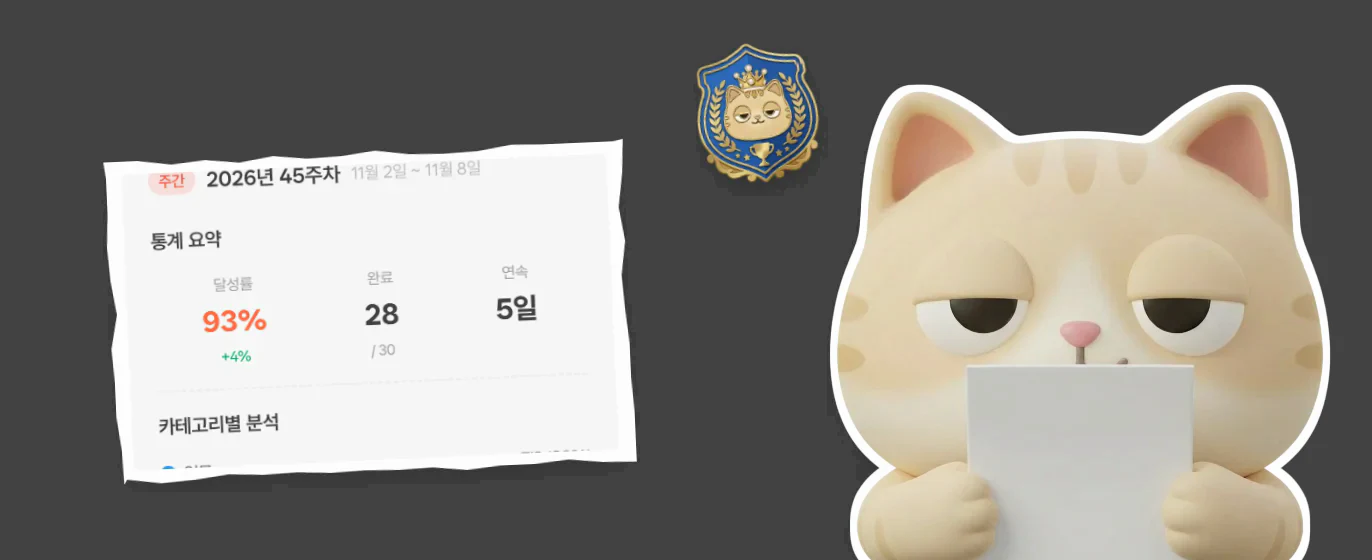
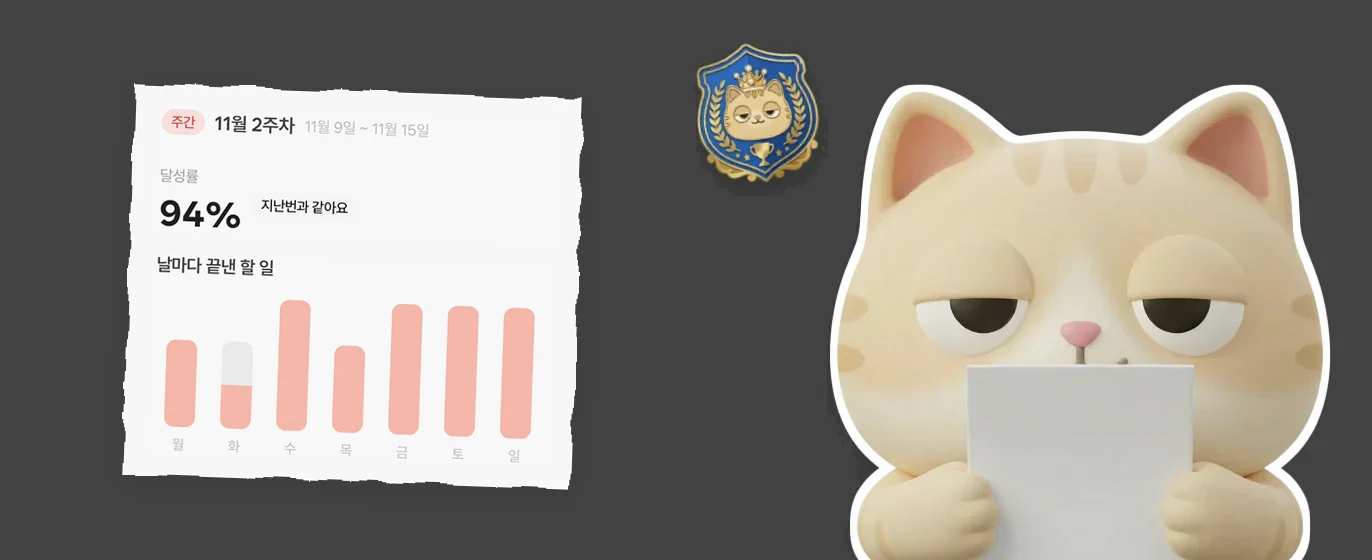
fix(mobile): [18.15/18] 결제 화면 AI 혜택 그림을 1.16.0 화면으로 바꾸고 동의가 어긋나도 제안 화면이 멈추지 않게 한다
결제 화면 혜택 그림
- 계정 7종 시뮬레이터 QA에서 결제 화면의 AI 반복 제안 그림이 옛 제안 카드(신뢰도 95%,
  거절·수락, 만료 11월 23일)를, AI 리포트 그림이 옛 통계 요약을 보였다
- 두 그림의 고양이·배지·배경(brand·#424242)은 그대로 두고 왼쪽 종이만 1.16.0 실제 화면으로
  바꿨다. 제안은 근거와 두 버튼이 있는 제안 줄, 리포트는 달성률 헤드라인과 날마다 막대다.
  크기(1372×560)와 찢은 종이·그림자 모양은 원본과 같다
- 리포트 혜택 설명에서 1.16.0에 없어진 요일 패턴을 뺐다(ko "달성률과 날마다 끝낸 할 일을
  차트로 보여 줘요", en "See your completion rate and daily progress in charts")
- 그림 이름의 routine을 기능 이름(AI_SUGGESTION)에 맞춰 benefit-ai-suggestion.webp로 바꿨다

동의가 어긋날 때 받는 중 틀
- SuggestionStatus.NeedsAiConsent는 앱이 동의를 알면 받는 중 틀을 그렸다. 받은 상태가 여전히
  NEEDS_AI_CONSENT면(동의 시각이 서버 시계보다 늦어 서버가 아직 동의 전으로 보는 경우) 다시
  받을 일이 없어 틀에 멈췄다
- 제안 목록을 다시 받는 동안(useIsFetching)만 틀을 두고, 받은 뒤에도 동의 전이면 안내를 다시
  보여 다시 동의할 수 있게 한다

검증
- 새 회귀 테스트(suggestion-status.test): 고치기 전 코드에서 실패(틀에 머묾), 고친 뒤 통과
- mobile typecheck·oxlint·check:unused, jest suggestion·billing·consent·i18n 45 suites 509건
- docs:check 170개 실패 0

Changed region(s): [[0.0612, 0.1518, 0.4898, 0.8804], [0.0918, 0.8196, 0.1837, 0.8804], [0.2449, 0.4857, 0.3061, 0.5161]]

diff --git a/apps/mobile/src/features/assistant/suggestion/components/suggestion-status.test.tsx b/apps/mobile/src/features/assistant/suggestion/components/suggestion-status.test.tsx
@@ -1,0 +1,54 @@
+import '@src/shared/i18n/init';
+import { ok } from '@src/core/errors/result';
+import { createConsent } from '@src/features/identity/consent/__tests__/consent.fixtures';
+import { CONSENT_QUERY_KEYS } from '@src/features/identity/consent/queries/consent-query-keys';
+import { createUser } from '@src/features/identity/user/__tests__/user.fixtures';
+import { USER_QUERY_KEYS } from '@src/features/identity/user/queries/user-query-keys';
+import { createHttpClientStub, createTestDi, createTestQueryClient } from '@src/testing/core';
+import { renderScreen } from '@src/testing/render';
+import { screen } from '@testing-library/react-native';
+import { Suspense } from 'react';
+
+import {
+  createSuggestionAnalysisDto,
+  createSuggestionListDto,
+} from '../__tests__/suggestion.fixtures';
+import { SuggestionStatus } from './suggestion-status';
+
+describe('SuggestionStatus', () => {
+  it('앱은 동의했다고 알지만 받은 상태가 동의 전이면 받는 중 틀에 머물지 않고 동의 안내를 보인다', async () => {
+    // Given
+    const httpClient = createHttpClientStub();
+    httpClient.get.mockResolvedValue(
+      ok(
+        createSuggestionListDto({
+          suggestions: [],
+          analysis: createSuggestionAnalysisDto({ state: 'NEEDS_AI_CONSENT' }),
+        }),
+      ),
+    );
+    const queryClient = createTestQueryClient({
+      defaultOptions: { queries: { staleTime: Infinity } },
+    });
+    queryClient.setQueryData(USER_QUERY_KEYS.me(), createUser({ id: 'account-1' }));
+    queryClient.setQueryData(
+      CONSENT_QUERY_KEYS.detail(),
+      createConsent({ aiDataSharingDecision: 'AGREED' }),
+    );
+
+    // When
+    await renderScreen(
+      <Suspense fallback={null}>
+        <SuggestionStatus />
+      </Suspense>,
+      {
+        di: createTestDi({ ports: { httpClient, queryClient } }),
+        withLocalDate: true,
+        withOverlay: true,
+      },
+    );
+
+    // Then
+    expect(await screen.findByText('AI 제안을 받으려면 동의가 필요해요')).toBeTruthy();
+  });
+});

diff --git a/apps/mobile/src/features/assistant/suggestion/components/suggestion-status.tsx b/apps/mobile/src/features/assistant/suggestion/components/suggestion-status.tsx
@@ -22,13 +22,14 @@ import {
   TextSkeleton,
   VStack,
 } from '@src/shared/ui';
-import { useMutation, useSuspenseQuery } from '@tanstack/react-query';
+import { useIsFetching, useMutation, useSuspenseQuery } from '@tanstack/react-query';
 import { useIsFocused } from 'expo-router';
 import { Spinner } from 'heroui-native';
 import type { ReactNode } from 'react';
 import { match } from 'ts-pattern';
 
 import { SUGGESTION_ANALYSIS_PERIOD_DAYS } from '../constants/suggestion.constants';
+import { SUGGESTION_QUERY_KEYS } from '../queries/suggestion-query-keys';
 import { useRequestSuggestionAnalysisMutationOptions } from '../queries/suggestion.mutations';
 import { useGetSuggestionsQueryOptions } from '../queries/suggestion.queries';
 import { getNextAnalysisLabels } from '../utils/suggestion-schedule.view-model';
@@ -175,9 +176,10 @@ SuggestionStatus.NeedsAiConsent = function NeedsAiConsent() {
   const { t } = useTranslation('ai');
   const aiConsent = useAiDataSharingConsentGate();
   const { data: consent } = useSuspenseQuery(useGetConsentQueryOptions());
+  const isRefreshingStatus = useIsFetching({ queryKey: SUGGESTION_QUERY_KEYS.list() }) > 0;
 
-  // 동의를 저장하면 안내는 바로 숨고 제안 상태는 다시 받는 중이라 그동안 빈 머리 대신 받는 중 틀을 둔다
-  if (ConsentPolicy.hasAgreedToAiDataSharing(consent)) {
+  // 동의 저장 뒤 상태를 다시 받는 동안만 틀을 둔다. 받은 상태가 여전히 동의 전이면 안내를 다시 보인다
+  if (ConsentPolicy.hasAgreedToAiDataSharing(consent) && isRefreshingStatus) {
     return <StatusSkeleton />;
   }
 

diff --git a/apps/mobile/src/features/billing/subscription/constants/subscription.constants.ts b/apps/mobile/src/features/billing/subscription/constants/subscription.constants.ts
@@ -1,6 +1,6 @@
 import benefitAiParsingImage from '@assets/images/subscription/benefit-ai-parsing.webp';
 import benefitAiReportImage from '@assets/images/subscription/benefit-ai-report.webp';
-import benefitAiRoutineImage from '@assets/images/subscription/benefit-ai-routine.webp';
+import benefitAiSuggestionImage from '@assets/images/subscription/benefit-ai-suggestion.webp';
 import benefitAiVoiceNoteImage from '@assets/images/subscription/benefit-ai-voice-note.webp';
 import type { FeatureMediaProps } from '@src/shared/ui';
 
@@ -24,7 +24,7 @@ export interface BenefitSlide {
 export const BENEFIT_SLIDES = [
   { feature: 'AI_PARSE', image: benefitAiParsingImage, tone: 'brand' },
   { feature: 'AI_REPORT', image: benefitAiReportImage, tone: 'dark' },
-  { feature: 'AI_SUGGESTION', image: benefitAiRoutineImage, tone: 'brand' },
+  { feature: 'AI_SUGGESTION', image: benefitAiSuggestionImage, tone: 'brand' },
   { feature: 'VOICE_NOTE', image: benefitAiVoiceNoteImage, tone: 'dark' },
 ] as const satisfies readonly BenefitSlide[];
 

diff --git a/docs/releases/1.16.0/README.md b/docs/releases/1.16.0/README.md
@@ -1,6 +1,6 @@
 # 1.16.0: AI 제안·AI 리포트 리디자인
 
-**상태: 출시 예정 2026-11-17.** 코드는 `[1/18]`~`[18.14/18]`이 스택에 있다. 랜딩 [패치 노트](https://aido.kr/ko/patch-notes/1-16-0)는 2026-11-17에 먼저 올렸다(Aido-Landing #75). CI·머지·서버 운영 배포·스토어 제출·실기기 확인은 아직이다. 마이너·패치 의존성 정리(AI SDK, `@nestjs/throttler` 6.8.0, i18next 27.1.3, react-i18next 18.0.2, pnpm 12.21.0)는 Dependabot 5일 냉각이 2026-11-18·11-21에 끝나 1.16.0에 넣지 않는다. 서버 쪽은 냉각 뒤 머지 배포로, 앱 쪽(i18next·react-i18next)은 다음 앱 버전으로 낸다. 측정하지 않은 값은 적지 않는다.
+**상태: 출시 예정 2026-11-17.** 코드는 `[1/18]`~`[18.15/18]`이 스택에 있다. 랜딩 [패치 노트](https://aido.kr/ko/patch-notes/1-16-0)는 2026-11-17에 먼저 올렸다(Aido-Landing #75). CI·머지·서버 운영 배포·스토어 제출·실기기 확인은 아직이다. 마이너·패치 의존성 정리(AI SDK, `@nestjs/throttler` 6.8.0, i18next 27.1.3, react-i18next 18.0.2, pnpm 12.21.0)는 Dependabot 5일 냉각이 2026-11-18·11-21에 끝나 1.16.0에 넣지 않는다. 서버 쪽은 냉각 뒤 머지 배포로, 앱 쪽(i18next·react-i18next)은 다음 앱 버전으로 낸다. 측정하지 않은 값은 적지 않는다.
 
 | 내용        | 문서                                                                                                                       |
 | ----------- | -------------------------------------------------------------------------------------------------------------------------- |
@@ -34,6 +34,8 @@
 - 무료 리포트는 이번 ISO 주 일별 완료를 보이고 오지 않은 날은 "아직"으로 구분한다(`[10/18]`). 그 아래 예시 리포트는 고른 탭(주간·월간)마다 지난주·지난달부터 4회가 최근 리포트 카드(달성률·변화 칩·8주 추세)와 지난 리포트로 쌓인 모양이고, 날짜는 오늘 기준이다. 예시 상세(`/reports/sample`)는 위에 예시 안내, 맨 아래 [구독하고 리포트 받기]가 있다. 목록·예시 상세·무료 제안 미리보기가 `premium_gate_shown`·`premium_gate_cta_tapped`를 보낸다(`[13/18]`·`[18.10/18]`).
 - 차트는 Skia로 그리고 스크린리더에 선택한 값을 읽어 준다. 최근 리포트 카드는 한 요소로 묶지 않아 VoiceOver로도 추세 차트에서 주를 고르고, 카드는 [자세히 보기]로 연다. 이번 주 내 기록 제목 옆 ⓘ가 막대와 AI 분석(무료는 프리미엄, 첫 리포트 전 프리미엄은 리포트가 오면)을 알린다(`[18.12/18]`). 새 차트 라이브러리는 쓰지 않는다(SDK 58의 Skia 2.14).
 - 문구를 새 화면에 맞췄다. 쓰지 않는 키(제안 paywall 제목·설명)를 지우고 "맞춤 제안이 도착했어요"를 바꿨다. Maestro `30-ai.yaml`이 새 문구·testID를 기다리고 새 흐름 `report/see-weekly-record-free`가 있다(`[13/18]`).
+- 결제 화면의 AI 리포트·AI 반복 제안 혜택 그림을 1.16.0 실제 화면(달성률 헤드라인·날마다 막대, 근거와 두 버튼이 있는 제안 줄)으로 바꿨다. 옛 그림은 신뢰도·거절·수락·만료와 옛 통계 요약을 보였다. 리포트 혜택 설명에서 없어진 요일 패턴을 뺐다(`[18.15/18]`).
+- 앱은 AI 동의를 알지만 받은 제안 상태가 아직 동의 전이면(동의 시각이 서버 시계보다 늦은 경우) 제안 화면이 받는 중 틀에 머물지 않고 동의 안내를 다시 보인다. 받는 중 틀은 동의 뒤 상태를 다시 받는 동안만 둔다(`[18.15/18]`).
 - 할 일이 많은 사용자(300개·활동 60종)도 제안을 받는다. 입력 상한에 막혀 세 공급자 모두 BAD_REQUEST였던 사례를 고쳤다(`[17/18]`).
 - 푸시 알림 설정의 앱 알림 묶음에 "AI 제안·리포트 알림"(en "AI suggestions & reports") 토글이 생겼다. 끄면 AI 제안·주간·월간 리포트 푸시만 오지 않고 앱의 알림 목록에는 남는다. 기본은 켜짐이고, 푸시 알림을 끄면 야간 토글처럼 흐려진다. 무료 사용자에게도 보인다. 설정은 계정에 남아 체험·구독을 시작하기 전에 꺼 둘 수 있고, 끄는 것은 프리미엄 기능이 아니다(날씨·야간 토글과 같다. 프리미엄 게이트는 바꾸는 것 자체가 프리미엄인 리마인드 시각에만 둔다)(`[18.9/18]`).
 
@@ -190,6 +192,7 @@ After는 마지막 프롬프트로 잰 값이다. 기본 체인의 첫 업체가
 | `[18.12/18]`          | mobile typecheck·oxlint·lint:deps(2500 모듈)·lint:names·check:unused(exit 0)·docs:check·oxfmt, jest 전체 560 suites 6362건(`--maxWorkers=2`). 전용 iPhone 18 Pro·SE 시뮬레이터(로컬 API): 무료·프리미엄 말풍선 ko·en·다크, X 뒤 재시작해도 안 뜸, SE에서 입구가 화면 밖이면 안 뜨고 내려가 멈추면 뜸, 이번 주 ⓘ·새 기능 칩. VoiceOver 실기기는 **미실행**                                            |
 | `[18.13/18]`          | `store:check`(Play en 출시 노트 465/500자) 통과, `docs:check`·`oxfmt --check`                                                                                                                                                                                                                                                                                                                        |
 | `[18.14/18]`          | vitest unit ai-assistance 65파일 1261건, e2e ai-report 12건, server typecheck, `oxlint apps/api`, `oxfmt --check`, `docs:check`, knip. live eval `report@5` 20건 기본 체인(Haiku) aiWritten 0.95(템플릿 1건, 다른 항목 숫자), 이름 검사로 버린 글 0건, $0.0046                                                                                                                                       |
+| `[18.15/18]`          | mobile typecheck·oxlint·check:unused, jest suggestion·billing·consent·i18n 45 suites 509건. 새 회귀 테스트(동의 어긋남에서 안내 표시)는 고치기 전 코드에서 실패·고친 뒤 통과. 혜택 그림은 원본과 같은 1372×560·배경색                                                                                                                                                                                |
 | 스택 맨 위(`[16/18]`) | vitest unit ai-assistance·planning·notification·config 5733건, integration AI·dispatch 44건, e2e ai-suggestion·ai-report·openapi-contract 37건 통과. tsc·oxlint·oxfmt·docs:check·knip·lint:deps 통과                                                                                                                                                                                                 |
 
 - 기기 확인(레이아웃 이동 겹쳐 찍기, 다크 대비, 24시간 차트 밀기 대 스크롤, VoiceOver·TalkBack, iPad 라벨, 카카오 공유 실기기, RevenueCat sandbox)은 **미실행**이다. 표는 [사용자 상황 확인표](qa-matrix.md)다.
@@ -230,6 +233,7 @@ Expo가 관리하는 패키지(react, gesture-handler, Sentry RN, Skia, reanimat
 - weather 캐시 묶음 메서드를 정리한다.
 - 제안 큐 payload의 `weatherGrid`와 옛 job 대체(optional `localDate`·`trigger`, 실행 기록 없는 job)를 지운다(1.17.0, [호환](../../conventions/compatibility.md)).
 - `AI_SUGGESTION_LIMITS.CONTEXT_WEEKS`를 정리한다.
+- 제안을 반복으로 만들 때 같은 날 같은 제목의 단건 할 일이 이미 있으면 둘 다 보인다(QA에서 미래 날짜 단건과 겹침). 수락할 때 겹치는 단건을 알려 줄지 정한다.
 
 ### 알림 채널
 
@@ -263,3 +267,4 @@ Expo가 관리하는 패키지(react, gesture-handler, Sentry RN, Skia, reanimat
 | `[18.12/18]` | 1.16.0 AI 개편을 첫 실행 코치마크와 새 기능 소개로 알리고 이번 주 기록에 툴팁을 단다                  |
 | `[18.13/18]` | 출시일·새 기능 소개 캠페인 예시를 1.16.0으로 맞추고 스토어 문구에 무료 미리보기·AI 알림 끄기를 더한다 |
 | `[18.14/18]` | AI 리포트 코치 글이 데이터에 없는 카테고리 이름을 쓰면 그 문장을 버린다                               |
+| `[18.15/18]` | 결제 화면 AI 혜택 그림을 1.16.0 화면으로 바꾸고 동의가 어긋나도 제안 화면이 멈추지 않게 한다          |
